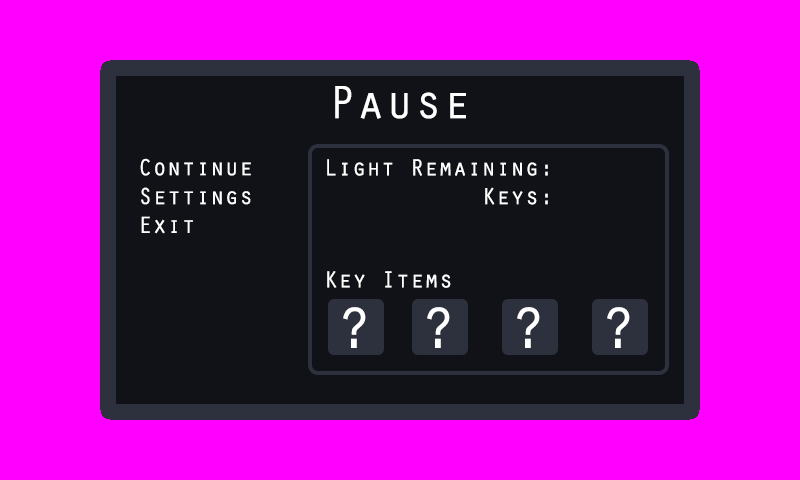
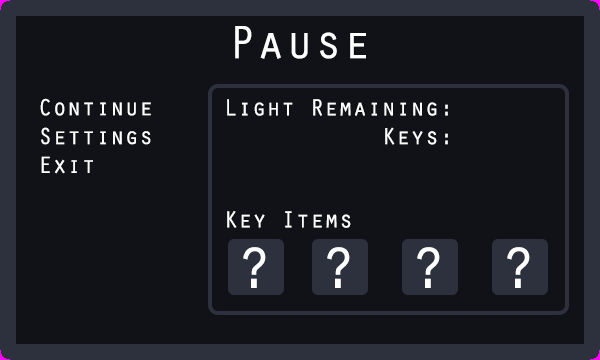
Finished pause for now

diff --git a/tower-of-darkness-xna/tower-of-darkness-xna/tower-of-darkness-xna/Game1.cs b/tower-of-darkness-xna/tower-of-darkness-xna/tower-of-darkness-xna/Game1.cs
@@ -1,6 +1,7 @@
 using System;
 using System.Collections.Generic;
 using System.Linq;
+using System.Reflection;
 using Microsoft.Xna.Framework;
 using Microsoft.Xna.Framework.Audio;
 using Microsoft.Xna.Framework.Content;
@@ -51,14 +52,14 @@ namespace tower_of_darkness_xna {
         private float menuInterval = 100;
 
         //Pause vars
-        private const int NUM_PAUSE_ITEMS = 2;
+        private const int NUM_PAUSE_ITEMS = 3;
         private Texture2D pauseBackground;
         private Texture2D pauseSelector;
         private Vector2 pauseSelectorPosition;
         private int pauseSelectorIndex = 0;
         private float pauseSelectTimer = 100;
         private float pauseSelectInterval = 100;
-        private float pausePlayTimer = 0;
+        private float pausePlayTimer = 1000;
         private float pausePlayInterval = 1000;
 
         public Game1()
@@ -111,7 +112,7 @@ namespace tower_of_darkness_xna {
         private void loadPauseContent() {
             pauseBackground = Content.Load<Texture2D>("pausescreen");
             pauseSelector = Content.Load<Texture2D>("menu_selector");
-            pauseSelectorPosition = new Vector2(192, 234);
+            pauseSelectorPosition = new Vector2(128, 150);
         }
 
         private void loadMenuContent() {
@@ -270,7 +271,7 @@ namespace tower_of_darkness_xna {
                         case 0:         //Continue
                             gameState = GameState.Playing;
                             break;
-                        case 1:         //Exit
+                        case 2:         //Exit
                             gameState = GameState.Menu;
                             menuTimer = -300;
                             break;
@@ -285,7 +286,7 @@ namespace tower_of_darkness_xna {
                     pausePlayTimer = -300;
                 }
 
-                pauseSelectorPosition = new Vector2(192, 234 + pauseSelectorIndex * 30);
+                pauseSelectorPosition = new Vector2(128, 150 + pauseSelectorIndex * 30);
             }
         }
 
@@ -310,6 +311,8 @@ namespace tower_of_darkness_xna {
         }
 
         private void drawPlaying(GameTime gameTime) {
+            //GraphicsDevice.Clear(Color.Black);
+
             Color drawColor = new Color(ambientColor.R / 255f * ambient, ambientColor.G / 255f * ambient, ambientColor.B / 255f * ambient);
 
             spriteBatch.Begin();
@@ -330,6 +333,8 @@ namespace tower_of_darkness_xna {
         }
 
         private void drawMenu(GameTime gameTime) {
+            GraphicsDevice.Clear(Color.Black);
+
             spriteBatch.Begin();
             spriteBatch.Draw(menuBackground, new Vector2(), Color.White);
             spriteBatch.Draw(menuSelector, menuSelectorPosition, Color.White);
@@ -338,7 +343,7 @@ namespace tower_of_darkness_xna {
 
         private void drawPause(GameTime gameTime) {
             spriteBatch.Begin();
-            spriteBatch.Draw(pauseBackground, new Vector2(), Color.White);
+            spriteBatch.Draw(pauseBackground, new Vector2(100, 60), Color.White);
             spriteBatch.Draw(pauseSelector, pauseSelectorPosition, Color.White);
             spriteBatch.End();
         }
@@ -348,7 +353,6 @@ namespace tower_of_darkness_xna {
         /// </summary>
         /// <param name="gameTime">Provides a snapshot of timing values.</param>
         protected override void Draw(GameTime gameTime) {
-            GraphicsDevice.Clear(Color.Black);
 
             switch (gameState) {
                 case GameState.Menu:
